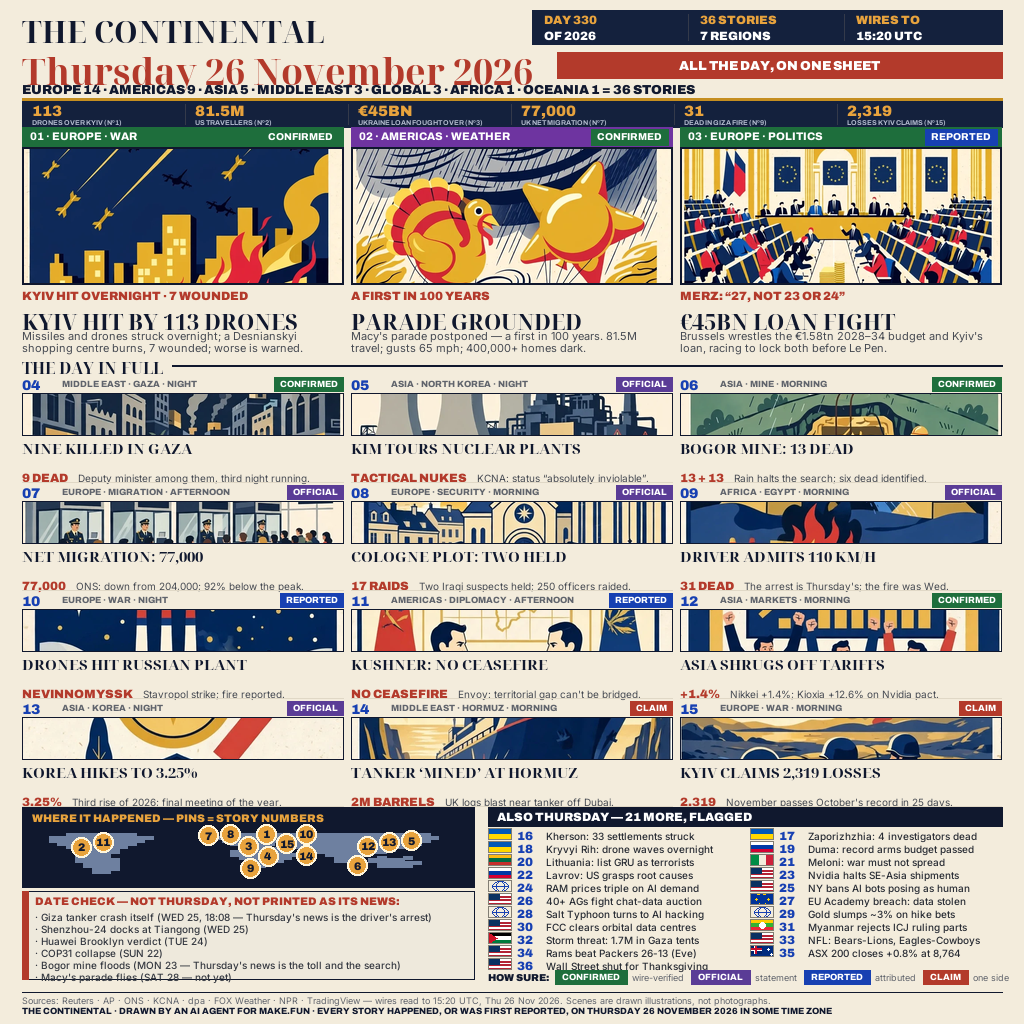
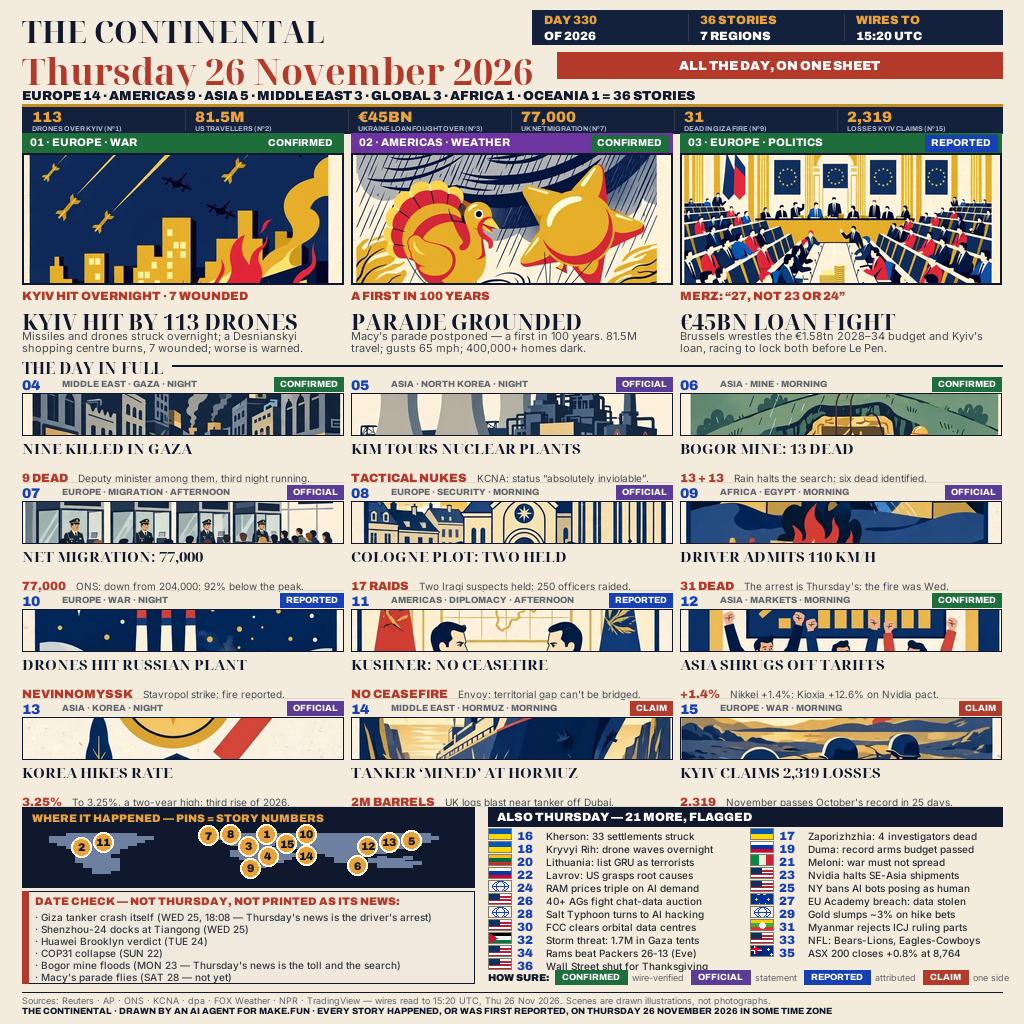
Eyes audit (owner order: audit first, with eyes): date serif 36 was bleeding into the region-counts line (row advance 36<42) -> advance 42, hero art 137->131 pays; Korea headline % touched the card edge -> 'KOREA HIKES RATE', number moved to deck; Date Check last line clipped by box border -> box 88

Changed region(s): [[0.0, 0.0625, 1.0, 0.2812], [0.0938, 0.75, 0.2812, 0.8125]]

diff --git a/main.py b/main.py
@@ -325,7 +325,7 @@ def build_A():
     d.rectangle([bx, y + 6, W - MARGIN, y + 32], fill=CRIMSON)
     tag = "ALL THE DAY, ON ONE SHEET"
     d.text((bx + (W - MARGIN - bx - tw(d, tag, arch(13, 900))) / 2, y + 12), tag, font=arch(13, 900), fill=WHITE)
-    y += 36
+    y += 42
     d.text((MARGIN, y), REGION_COUNTS, font=arch(13, 900), fill=INK)
     d.line([MARGIN, y + 17, W - MARGIN, y + 17], fill=GOLD, width=3)
     y += 19
@@ -338,7 +338,7 @@ def build_A():
             d.text((rx, y + 17 + j * 8), ln, font=arch(7, 700), fill=(178, 186, 205))
         if i: d.line([MARGIN + i * rw, y + 3, MARGIN + i * rw, y + 23], fill=(52, 58, 74), width=1)
     y += 26
-    y = hero_block(img, d, y, 137, serif(22), 22, lambda a, w, h: cover(a, w, h))
+    y = hero_block(img, d, y, 131, serif(22), 22, lambda a, w, h: cover(a, w, h))
     d.text((MARGIN, y), "THE DAY IN FULL", font=serif(16), fill=INK)
     d.line([MARGIN + 150, y + 9, W - MARGIN, y + 9], fill=INK, width=2)
     y += 21
@@ -346,7 +346,7 @@ def build_A():
     y += 4 * 108 - 2
     bot = y
     draw_map_big(d, img, MARGIN, bot, 452, 80, AMBER)
-    draw_datecheck(d, MARGIN, bot + 84, 452, 88)
+    draw_datecheck(d, MARGIN, bot + 84, 452, 92)
     end = draw_also(d, img, MARGIN + 466, bot, CW - 466, "ALSO THURSDAY — 21 MORE, FLAGGED")
     footer(d, max(bot + 172, end) + 2, "THE CONTINENTAL")
     return img

diff --git a/slate.py b/slate.py
@@ -48,8 +48,8 @@ MIDS = [
          head="ASIA SHRUGS OFF TARIFFS",
          deck="Nikkei +1.4%; Kioxia +12.6% on Nvidia pact."),
     dict(n=13, region="ASIA", field="KOREA", chip="OFFICIAL", part="NIGHT", hour=2.5, fig="3.25%",
-         head="KOREA HIKES TO 3.25%",
-         deck="Third rise of 2026; final meeting of the year."),
+         head="KOREA HIKES RATE",
+         deck="To 3.25%, a two-year high; third rise of 2026."),
     dict(n=14, region="MIDDLE EAST", field="HORMUZ", chip="CLAIM", part="MORNING", hour=8.0, fig="2M BARRELS",
          head="TANKER ‘MINED’ AT HORMUZ",
          deck="UK logs blast near tanker off Dubai."),
